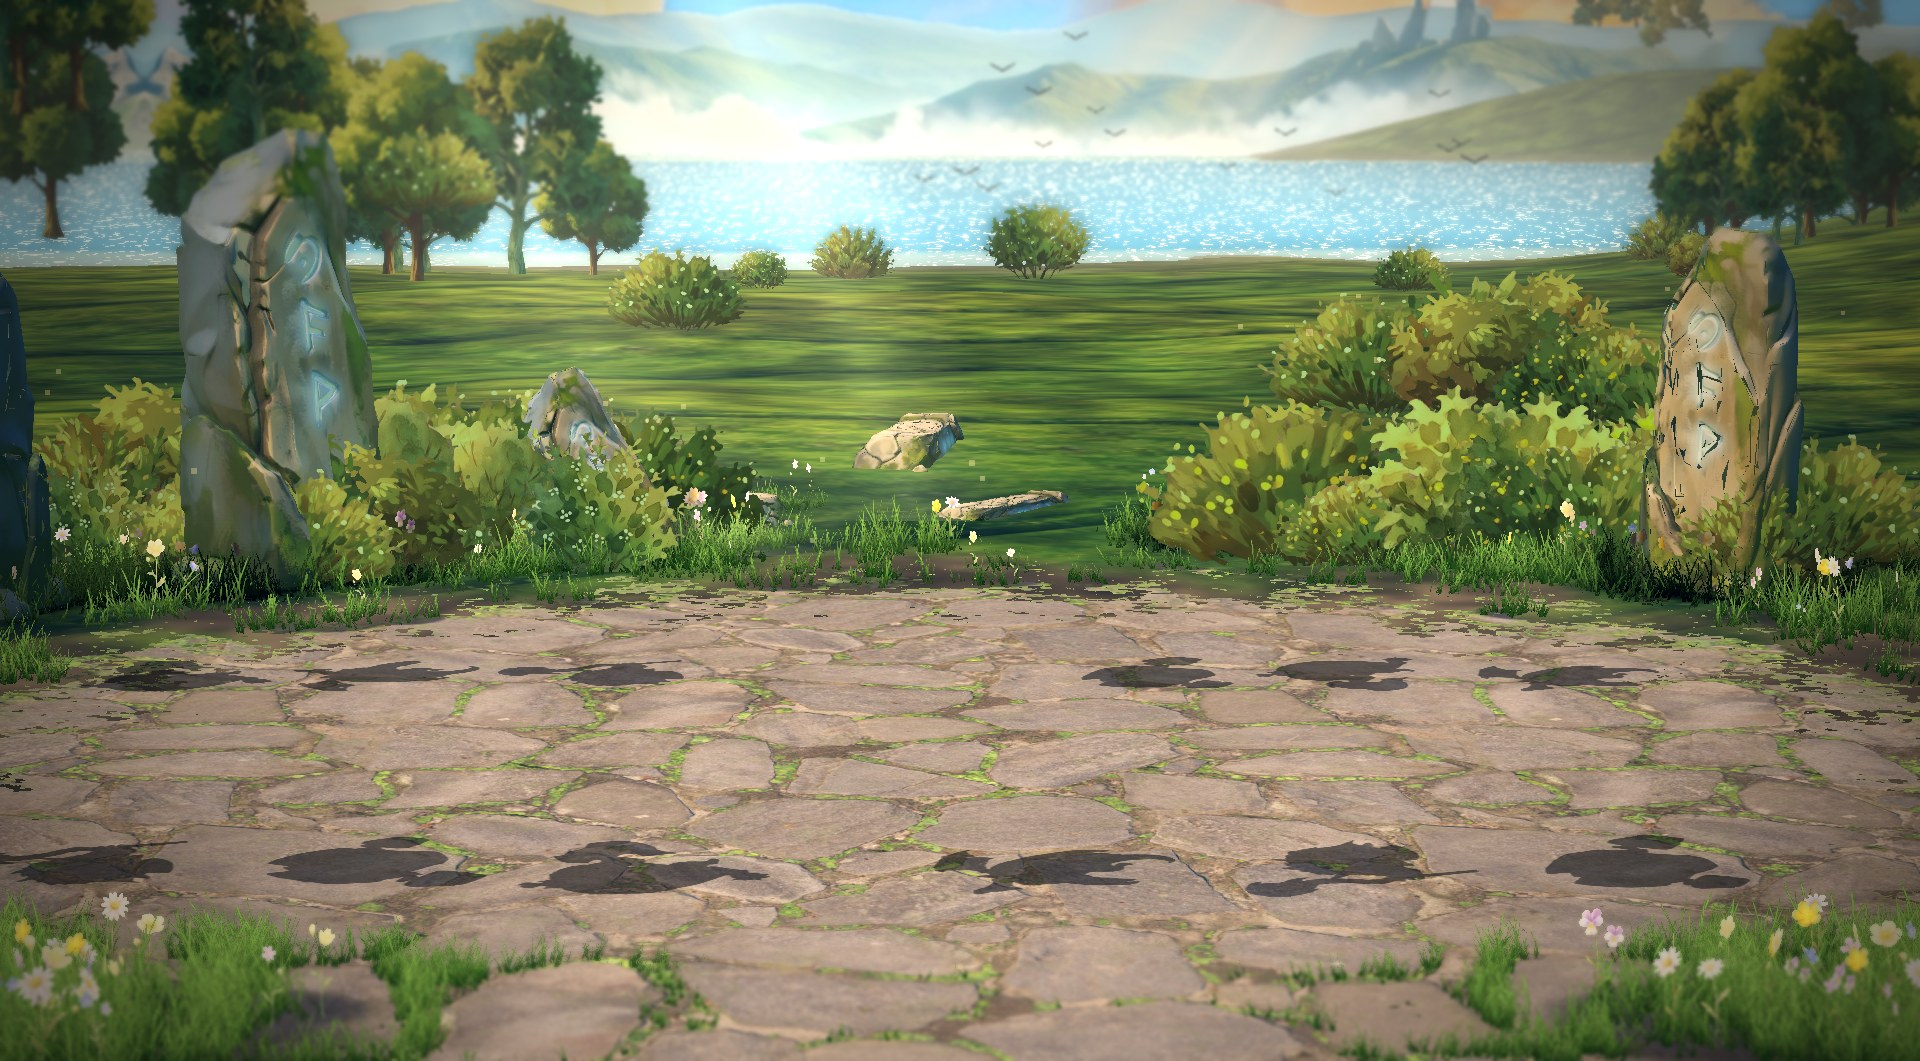
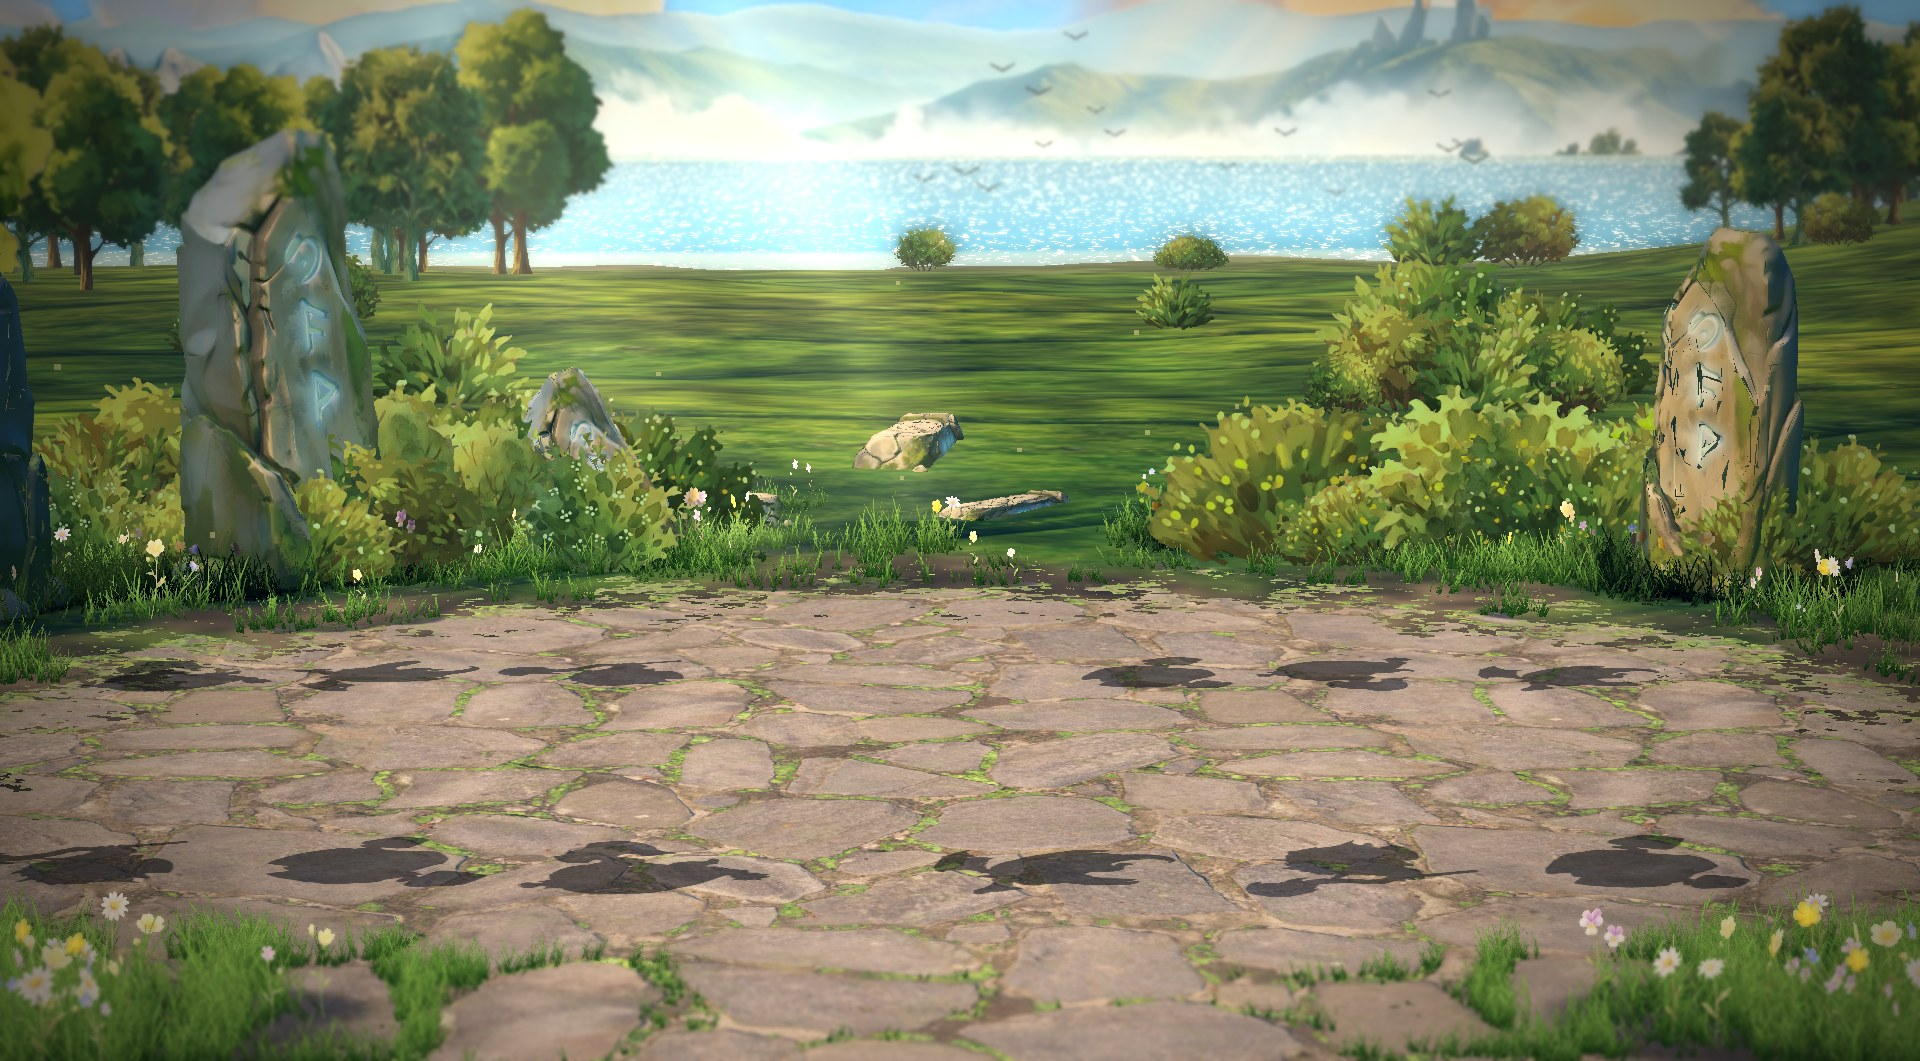
set 238 round 1: right land behind the lake removed (hrc), trees read terrain options first; r38 re-baked, stills

diff --git a/claude/handoff.md b/claude/handoff.md
@@ -2,7 +2,7 @@
 Read by Claude every new chat. Keep ≤ 1 screen: Relay = newest 2 sets + open WIP sets (set 211 B1), trim at every close-out; move finished items to claude/archive/ (full pre-trim copy: archive/handoff-2026-10-30-full.md). User gets a Thai summary in chat at the end of each task set.
 
 ## Relay (two accounts take turns — rules in claude/workflow/relay.md · full pre-trim block: archive/relay/relay-2026-10-31.md)
-- **Set 238 (15 Nov, PC · docs → main · WIP in the scratch Godot copy · no gate · no values · no publish).** Owner marked the AI picture (S1–S4, W1, T1/T2, O1, crossed-out ridge/rocks). Picks A1 lake back (measured z −118) · B2 · C1 · D = S1–S3 cut from the owner picture. Baked `<g>/art/arena_r38/arena_r38.tscn` (r37 untouched), view check OK. Stills claude/preview-set238/ (r38-vs-picture = picture-camera comparison). **Next:** plan-set238.md step 6 (owner verdict on stills) → step 7 (art-style §8 r38 = arena) → set 236 step 4 ports arena_r38.
+- **Set 238 (15 Nov, PC · docs → main · WIP in the scratch Godot copy · no gate · no values · no publish).** Owner marked the AI picture (S1–S4, W1, T1/T2, O1, crossed-out ridge/rocks). Picks A1 lake back (measured z −118) · B2 · C1 · D = S1–S3 cut from the owner picture. Baked `<g>/art/arena_r38/arena_r38.tscn` (r37 untouched; round 1: right land behind the lake removed, hrc=1), view check OK. Stills claude/preview-set238/ (r38-vs-picture = picture-camera comparison). **Next:** plan-set238.md step 6 (owner verdict on stills) → step 7 (art-style §8 r38 = arena) → set 236 step 4 ports arena_r38.
 - **Set 237 (15 Nov, PC · docs → main fa2b72d · WIP in the scratch Godot copy · no gate · no values · no publish).** Owner: arena rebuilt as a REAL 3D meadow from their AI overhead picture, r36 camera kept, no dirt paths, 3 layered mountain ridges + mist behind the lake → baked `<g>/art/arena_r37/arena_r37.tscn`, view check OK. Stills claude/preview-set237/ · code copies preview-set230/*.txt + r37_args.txt · art-look §8g = bake runbook. **Next:** plan-set237.md step 6 (art-style §8: r37 = arena) → set 236 step 4 ports arena_r37. Never re-bake over a newer file time without asking.
 - **Set 236 (15 Nov, PC · docs → main d40aab9 · WIP in the scratch Godot copy · no gate · no values · no publish).** Owner: r36 arena ทำจริง — A1 editable scene · r36 camera · C1 compressed files · D1 stand-ins local-only (art-style V2.3 §8). Steps 1–3 done: bake tool → self-contained `<g>/art/arena_r36/` (tscn + webp + meshes ≈ 12 MB, + Slots markers), view check = r36. **Next:** plan-set236.md step 4 (port into a fresh `claude/arena-r36` branch; owner questions listed there).
 - **Set 217 (13–14 Nov, PC · SAMPLE — NO MERGE: ccr-882ceb4b-0ewtk1, last ecd24e1 · ui-preview R1–R20 + P0–P1t · no gate · no values · no publish · test_ui still pins old camera numbers).** Rune-meadow arena, FF Resonance framing + HD-2D look; owner camera A2 = FOV 19.2 / PITCH 14; owner hand-arranged stones (edit the .tscn, never regenerate s217_make_r6.gd); all art = placeholder. Details + rebuild order: `ccr-882ceb4b-0ewtk1:claude/preview-set217/notes.md` · gaps: claude/review-2026-11-14-hd2d-gaps.md. **Next (set 221: owner saw P1t, picked A3 = PAUSED until owner art arrives: new grass picture, stones a–e + rock sheet, flowers, 64×64 unit sprites idle/attack/hit/die):** then A3 phase 2/3 · later A1 phase 4 colour pass (art-look-ref §9 ideas) · A2 ทำจริง (rule-change art-style §8 camera + ui-work on a fresh branch from main, update test_ui, gate) · A3 phase 2/3 when owner art arrives.

diff --git a/claude/plan-set238.md b/claude/plan-set238.md
@@ -10,7 +10,7 @@ Security (HARD RULE 9): only the owner's own AI picture, plus art already in the
 3. [x] `_s238_trees` (`s238=1`): polygons measured in the picture — T2 left grove, T1 right lakeside grove, right forest from x 43 (owner green line), MM gap r 20, far trees only x > 60, groves 0.68× height + 2.8 m spacing, O1 clump of 7 bushes at (10.4,−31.5), 12 meadow shrubs.
 4. [x] `_s238_cards` (`mlpic=1`, replaces mlayers): S3/S2/S1 cut from the picture (`preview-set230/cards238.py.txt`: editor UI painted out, silhouettes snapped to the owner's lines, mirrored side pads), each facing the game camera at D 316/308/300 (z −290…−274), picture row 212 → water line, scale `mls=0.85`, `mlcon=1.18`, `mltint`.
 5. [x] Baked → `<g>/art/arena_r38/arena_r38.tscn` (891 nodes, 13 MB, self-contained, 3 S238Layer nodes). View check OK. Stills: claude/preview-set238/. Args: preview-set230/r38_args.txt.
-6. [ ] Owner looks at the stills → tweaks (sample loop) or OK.
+6. [~] Owner round 1 (Godot, 15 Nov): crossed out the right land behind the lake → `hrc=1` (both terrain copies: right hills fade out at z −185…−215, water there). Fixed in passing: trees were placed before the terrain options were read (lake shift/ridge/hrc now applied to trees too). Re-baked r38 (874 nodes), view check OK. Owner looks at the stills → tweaks (sample loop) or OK.
 7. [ ] rule-change art-style §8: r38 = the arena (was plan-set237 step 6) → plan-set236 step 4 ports `arena_r38`.
 
 ## Known gaps
